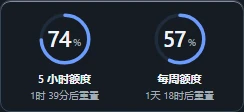
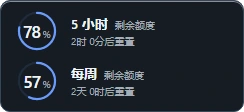
0.1.13：同步悬浮窗设计与额度行预览

diff --git a/docs/FLOATING_REFERENCES.md b/docs/FLOATING_REFERENCES.md
@@ -10,4 +10,13 @@
 
 贴边问题使用本项目自身的原生区域裁剪和光标命中实现，不将网页hover样例直接当作Windows悬浮窗方案。尺寸稳定后以transform呈现展开/收起，短时同步原生绘制及点击区域；64ms光标核对仅在吸附且未全屏隐藏时启用，自由、拖动、禁用及退出时停止。依据[Electron BrowserWindow.setShape](https://www.electronjs.org/docs/latest/api/browser-window#winsetshaperects-windows-linux-experimental)的命中语义，收缩后的透明区域不拦截其他窗口。
 
-本轮只进行源码与隔离协议验证：真实OS鼠标碰边、原生合成器观感和多屏/DPI未执行。模拟光标坐标、模拟菜单/全屏协议、Chromium合成数据截图与实际原生输入验收分别记录，不互相替代。
+0.1.12仅进行源码与隔离协议验证：真实OS鼠标碰边、原生合成器观感和多屏/DPI未执行。模拟光标坐标、模拟菜单/全屏协议、Chromium合成数据截图与实际原生输入验收分别记录，不互相替代。
+
+
+## 本地Token Manager参考（0.1.13）
+
+只读检查用户指定程序的嵌入前端，未执行目标或读取其账户；内部证据报告绑定EXE及恢复资产摘要。它使用Tauri与Vue，展开为单列数据与Agent条目，额度采用细条；边缘轨使用小环。参考其数据行、次级操作及连续几何过渡，不复制代码、商标、资源或采集逻辑。
+
+实际CSS最终覆盖为纯色并禁用背景模糊，不能称为原生毛玻璃。虽有hover peek辅助函数，当前组件未触发该事件，因此不将其作为已验证交互。其较宽轨道、Logo和状态岛不适合本项目默认双额度8 DIP边签，保留自己的信息容量与工作台主题。曲线cubic-bezier(.22,1,.36,1)与本项目已有曲线一致，继续使用260/200ms时长，不加入第二套动效库。
+
+本项目新增透明原生宿主、DWM材质按状态撤回、内容提交后呈现。Electron官方说明透明窗口必须在构造时开启transparent，且系统原生缩放边框与透明兼容受限；详细面板改用可见尺寸柄及方向键。依据[透明窗口文档](https://www.electronjs.org/docs/latest/tutorial/custom-window-styles)与[原生材质文档](https://www.electronjs.org/docs/latest/api/base-window#winsetbackgroundmaterialmaterial-windows)。源码/隔离协议与真实Windows合成器显示分别验收，不再将setShape成功当作背景已消失的证据。

diff --git a/README.md b/README.md
@@ -14,11 +14,11 @@
 
 一个以本机 Profile 为资料边界的个人工作台。网页版与 Windows 桌面版共享页面和业务服务；项目、待办、账单、提示词与用量证据集中管理。一个 Profile 就是一个实例账户，无需应用登录或注册，用户名与头像可以修改。
 
-## 0.1.12 悬浮窗改进
+## 0.1.13 悬浮窗改进
 
 独立用量悬浮窗采用无标题栏的紧凑数据表面，与工作台共用中性色、字体及强调色。提供双圆环、横向摘要、紧凑卡片与详细面板，可配置指标、图表、独立筛选、浅深配色和原生毛玻璃。默认关闭，在桌面「关于 → 用量悬浮窗」或托盘菜单开启。
 
-悬浮窗开启后关闭主窗会保存可恢复的编辑现场并释放主界面，后台监测继续；从托盘或悬浮窗恢复。支持左、右、上贴边收缩和同屏全屏避让；碰边展开、移出收起，连续操作接管当前动画。悬浮内容和设置分开加载，隐藏暂停查询及图表，筛选响应缓存按字节限制。网页版不提供原生悬浮窗，Windows 安装版由 Releases 提供。
+悬浮窗开启后关闭主窗会保存可恢复的编辑现场并释放主界面，后台监测继续；从托盘或悬浮窗恢复。支持左、右、上贴边收缩和同屏全屏避让；碰边展开、移出收起，连续操作接管当前动画。默认额度采用两行环形指标与元信息，贴边收缩仅保留短边签；透明宿主与毛玻璃材质随状态协调，内容准备完成后才显示。悬浮内容和设置分开加载，隐藏暂停查询及图表，筛选响应缓存按字节限制。网页版不提供原生悬浮窗，Windows 安装版由 Releases 提供。
 
 ## 支持的工具与来源
 

diff --git a/GIT_LOG.md b/GIT_LOG.md
@@ -1,5 +1,5 @@
 # 发布记录
 
-## 0.1.12
+## 0.1.13
 
 React、TypeScript、Vite 与 Node、SQLite；Profile 实例资料、完整加密备份。桌面安装版由 Releases 提供。
